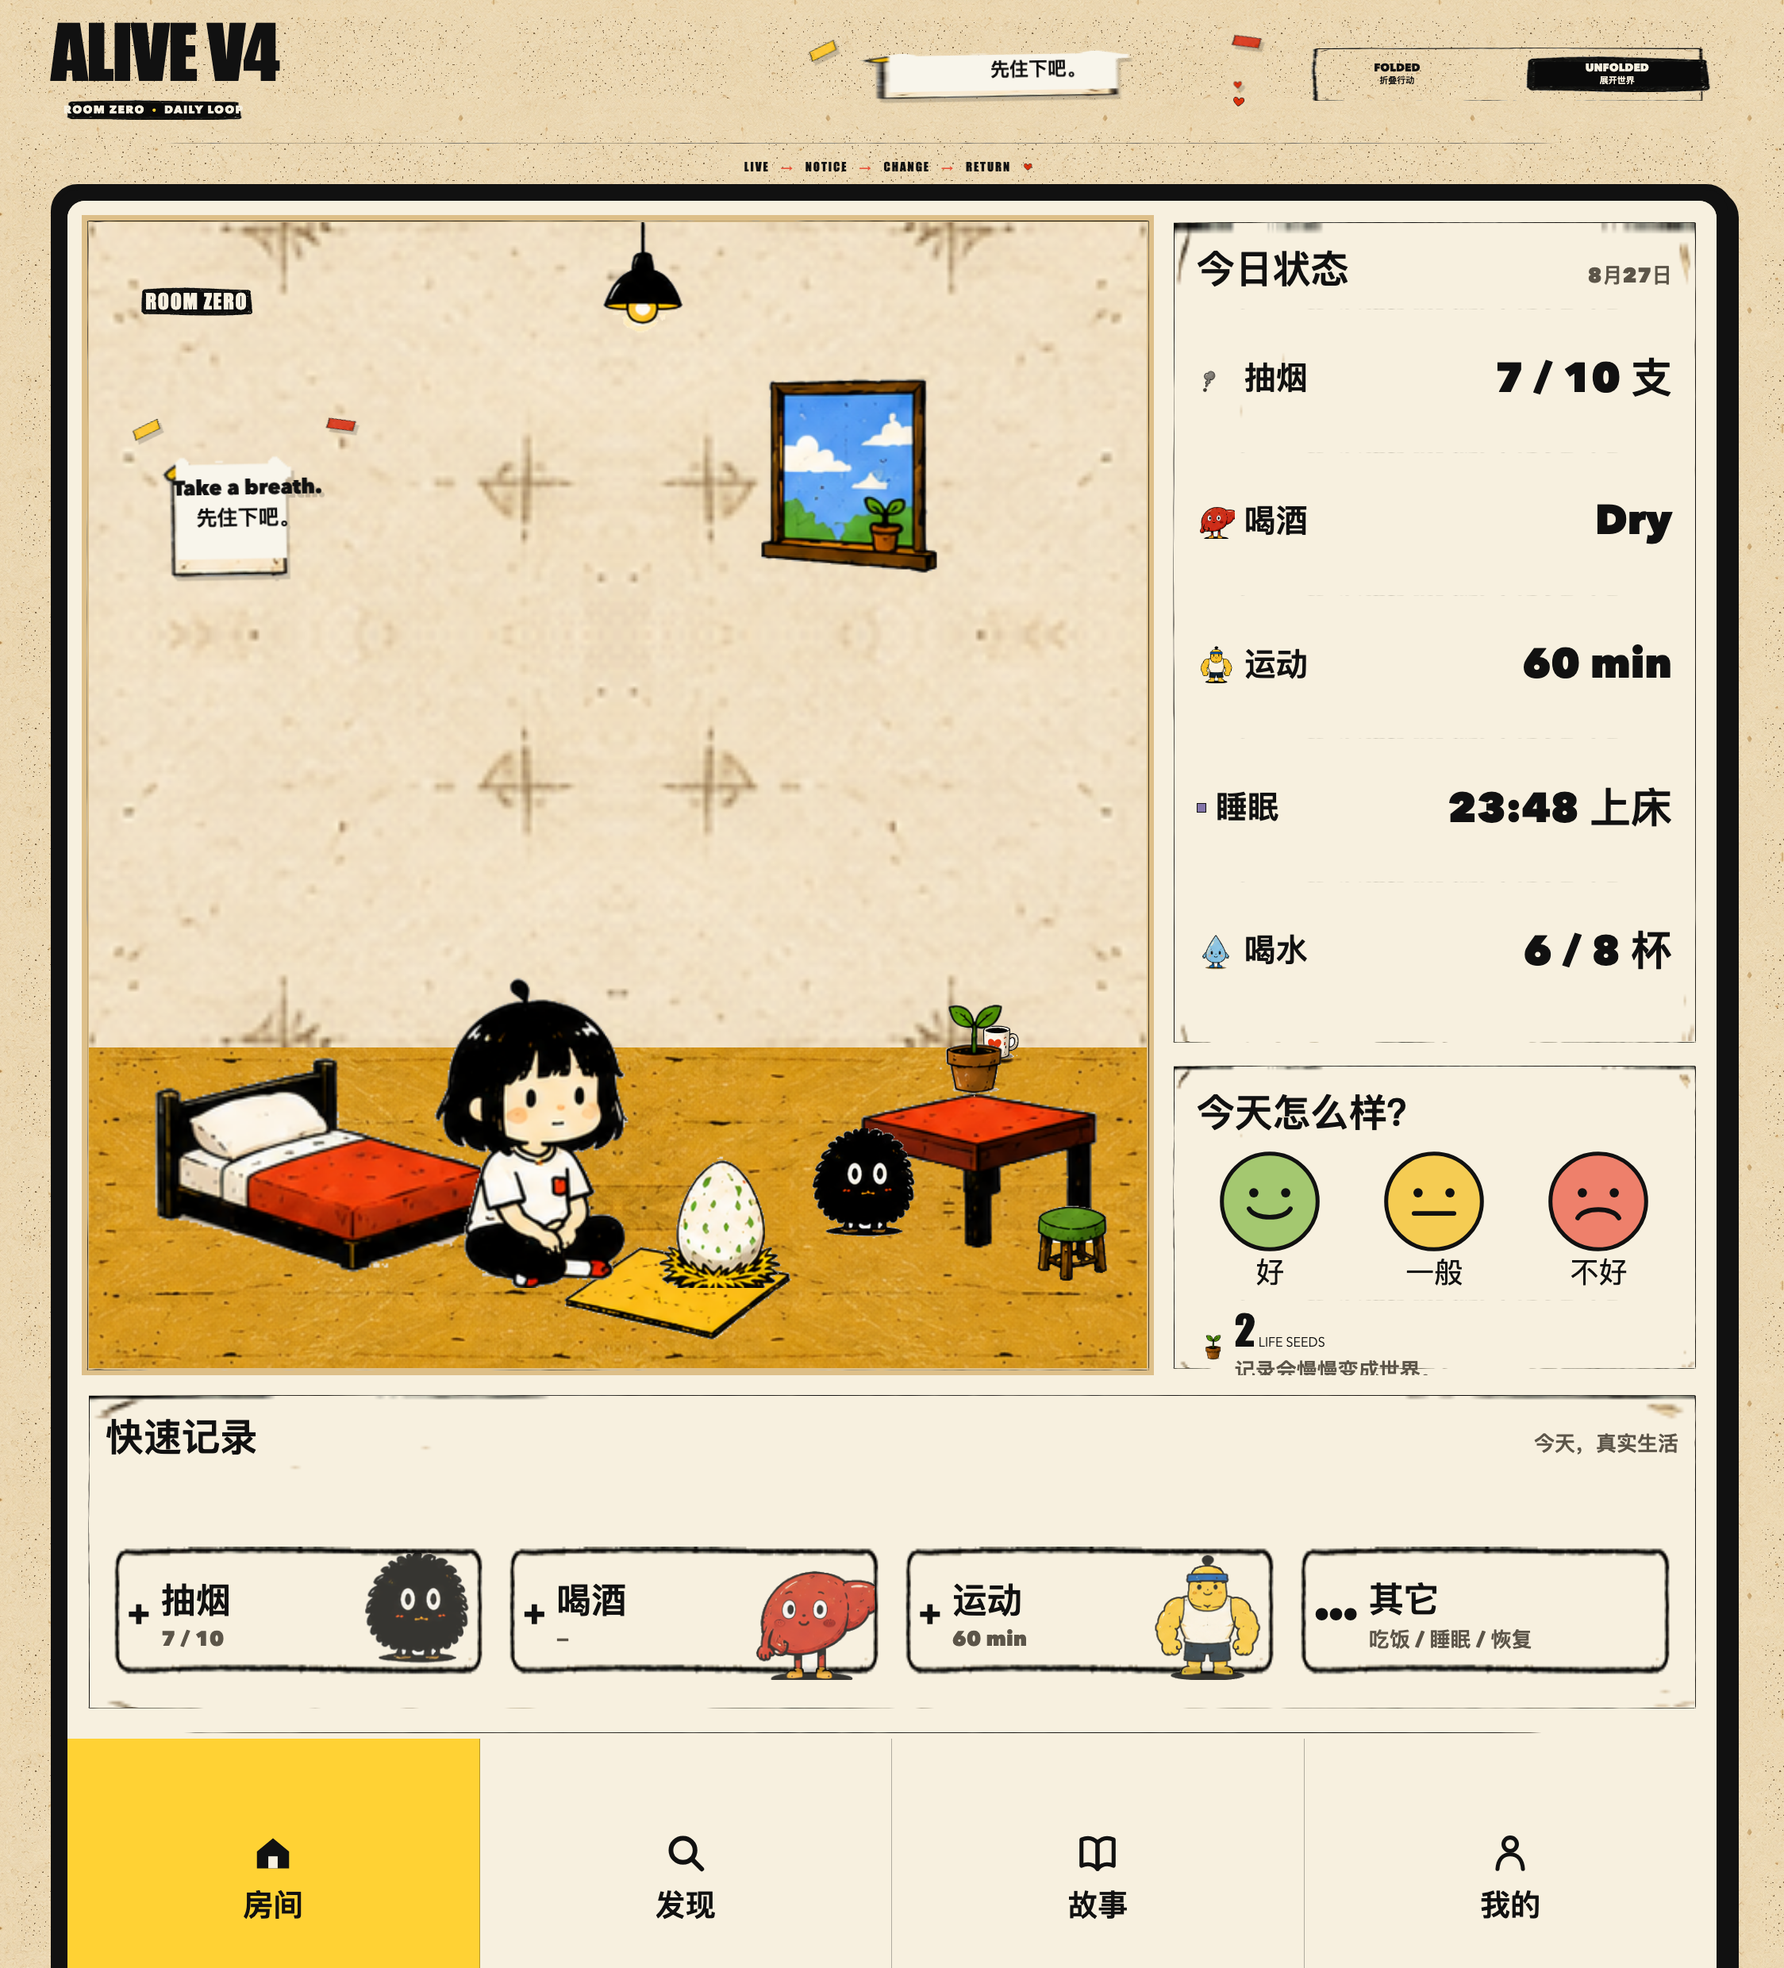
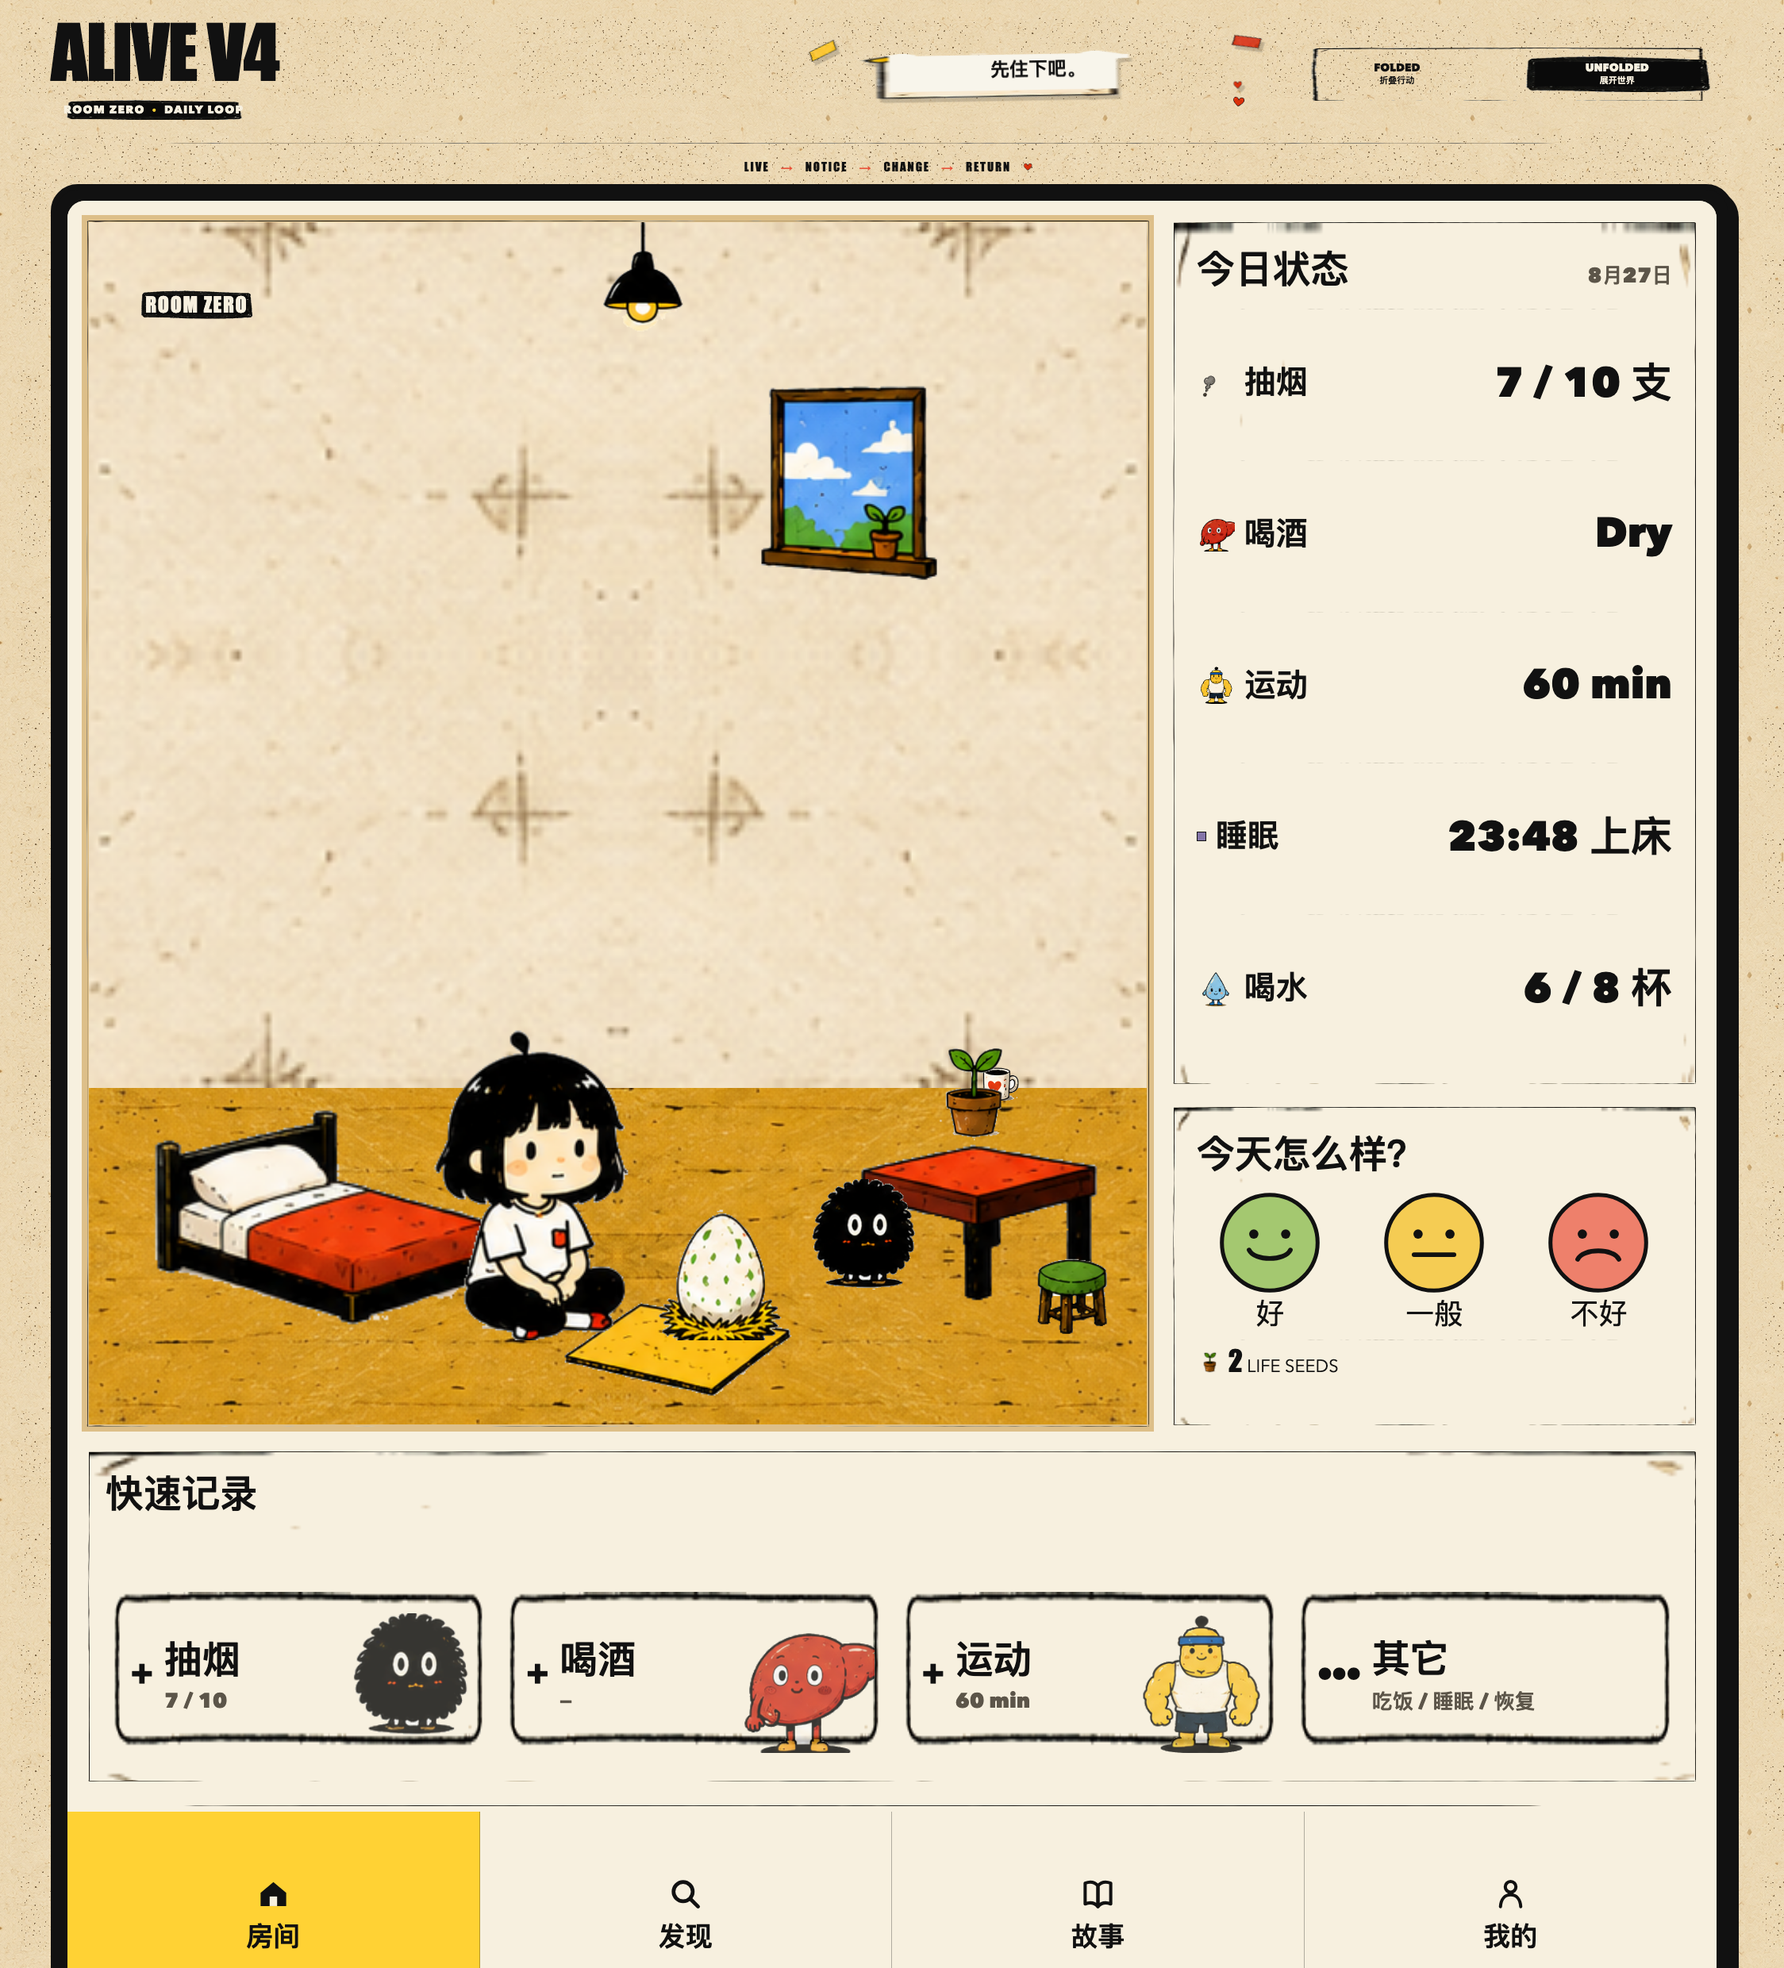
fix: tighten final visual polish

diff --git a/src/styles/app.css b/src/styles/app.css
@@ -30,7 +30,7 @@ img { max-width: 100%; }
 
 .handheld-shell { padding: 14px; border: 7px solid var(--ink); border-radius: 34px; background: var(--ink); box-shadow: var(--heavy-shadow); }
 .screen-bezel { overflow: hidden; border: 0; border-radius: 22px; background: var(--paper); }
-.screen-bezel[data-screen-mode="unfolded"] { aspect-ratio: 2248 / 2480; display: grid; grid-template-rows: minmax(0, var(--screen-unfolded-content-fr)) minmax(0, 16fr); }
+.screen-bezel[data-screen-mode="unfolded"] { aspect-ratio: 2248 / 2480; display: grid; grid-template-rows: minmax(0, var(--screen-unfolded-content-fr)) minmax(0, var(--screen-unfolded-nav-fr)); }
 .screen-bezel[data-screen-mode="folded"] { aspect-ratio: 1140 / 2616; display: block; }
 .screen-label { display: flex; justify-content: space-between; gap: 14px; min-width: 0; padding: 14px 8%; color: var(--paper); background-color: var(--ink); background-image: url('../../public/assets/material/frame-cta-black.png'); background-size: 100% 100%; font-family: var(--font-display); font-size: clamp(11px, 1.2vw, 16px); letter-spacing: .08em; white-space: nowrap; }
 .screen-label span { min-width: 0; overflow: hidden; text-overflow: ellipsis; }
@@ -40,7 +40,7 @@ img { max-width: 100%; }
 .unfolded-display > .quick-records { grid-column: 1 / -1; grid-row: 2; display: flex; flex-direction: column; justify-content: space-between; min-height: 0; height: 100%; margin-top: 0; padding: 18px 20px 20px; }
 .unfolded-display > .quick-records .section-heading { margin-bottom: 8px; }
 .unfolded-display > .quick-records .quick-grid { flex: 0 0 var(--action-quick); min-height: var(--action-quick); align-items: stretch; gap: 12px; }
-.unfolded-display > .quick-records .record-card { min-height: var(--action-quick); padding: 18px 20px; font-size: clamp(36px, 2.1vw, 44px); align-content: center; }
+.unfolded-display > .quick-records .record-card { min-height: var(--action-quick); padding: 24px 24px; font-size: clamp(40px, 2.3vw, 48px); align-content: center; }
 .unfolded-display > .quick-records .record-plus { margin-right: 14px; font-size: var(--type-primary); }
 .unfolded-display > .quick-records .record-label { font-size: inherit; }
 .unfolded-display > .quick-records .record-value { font-size: var(--type-secondary); }
@@ -111,7 +111,10 @@ img { max-width: 100%; }
 .mood:hover { transform: translateY(-3px); }
 .mood-face { display: block; width: clamp(92px, 6.5vw, 134px); height: auto; margin: 0 auto; }
 .mood-labels { display: grid; grid-template-columns: repeat(3, minmax(0, 1fr)); gap: 22px; margin-top: 6px; text-align: center; font-size: clamp(26px, 2.2vw, 36px); line-height: 1; }
-.mood-card .seed-chip { margin-top: 12px; padding-top: 10px; }
+.mood-card .seed-chip { margin-top: 10px; padding-top: 8px; }
+.mood-card .seed-chip img { width: 32px; height: 38px; }
+.mood-card .seed-chip b { font-size: 36px; }
+.mood-card .seed-chip span { font-size: 22px; }
 .seed-chip { display: flex; align-items: center; gap: 8px; margin-top: 15px; padding-top: 12px; background-image: url('../../public/assets/material/divider-handdrawn.png'); background-position: center top; background-size: 100% 8px; background-repeat: no-repeat; }
 .seed-chip img { width: 40px; height: 48px; object-fit: contain; }
 .seed-chip b { font-family: var(--font-display); font-size: var(--type-primary); } .seed-chip small { color: var(--muted); font-size: var(--type-secondary); font-weight: 750; }
@@ -120,9 +123,9 @@ img { max-width: 100%; }
 .bottom-nav { display: grid; grid-template-columns: repeat(4, 1fr); border-top: 0; background-color: var(--paper); background-image: url('../../public/assets/material/divider-handdrawn.png'); background-position: center top; background-size: 100% 12px; background-repeat: no-repeat; padding-top: 12px; }
 .bottom-nav { height: 100%; }
 [data-screen-mode="folded"] .bottom-nav { display: none; }
-.nav-item { display: flex; flex-direction: column; justify-content: center; align-items: center; gap: 12px; min-height: 120px; border: 0; border-right: 1.5px solid rgba(17,17,17,.3); background: transparent; font-size: clamp(30px, 2.3vw, 38px); font-weight: 950; }
+.nav-item { display: flex; flex-direction: column; justify-content: center; align-items: center; gap: 8px; min-height: 120px; border: 0; border-right: 1.5px solid rgba(17,17,17,.3); background: transparent; font-size: clamp(28px, 2vw, 34px); font-weight: 950; }
 .nav-item:last-child { border-right: 0; } .nav-item.is-active { background-color: var(--yellow); }
-.nav-icon { width: 54px; height: 54px; display: block; object-fit: contain; }
+.nav-icon { width: 43px; height: 43px; display: block; object-fit: contain; }
 .footer-caption { display: flex; justify-content: space-between; gap: 20px; align-items: baseline; padding-top: 24px; font-family: var(--font-display); } .footer-caption span { font-size: 25px; } .footer-caption small { letter-spacing: .07em; }
 
 [data-mode="folded"] .unfolded-display { display: none; }
@@ -158,10 +161,12 @@ img { max-width: 100%; }
 [data-mode="folded"] .focus-copy p { font-size: var(--type-secondary); }
 [data-mode="folded"] .focus-meter { display: block; flex-basis: 200px; }
 .primary-action, .secondary-action { width: 100%; margin-top: 0; border: 0; font-weight: 950; }
-.primary-action { display: flex; justify-content: center; align-items: center; gap: 20px; height: 100%; min-height: var(--action-primary); padding: 16px 22px; color: var(--paper); background-color: var(--ink); border: 8px solid transparent; border-image: url('../../public/assets/material/frame-cta-black.png') 20 fill / 8px / 0 stretch; font-size: clamp(56px, 5vw, 72px); align-self: stretch; }
-.primary-action img { width: 58px; height: 58px; object-fit: contain; }
+.primary-action { position: relative; display: flex; justify-content: center; align-items: center; gap: 20px; height: 100%; min-height: var(--action-primary); padding: 16px 22px; color: var(--paper); background-color: var(--ink); border: 8px solid transparent; border-image: url('../../public/assets/material/frame-cta-black.png') 20 fill / 8px / 0 stretch; font-size: clamp(56px, 5vw, 72px); align-self: stretch; }
+.primary-action .cta-icon { width: 68px; height: 68px; object-fit: contain; }
+.primary-action .cta-companion { position: absolute; right: 3%; bottom: -5%; z-index: 2; width: clamp(72px, 8vw, 102px); max-height: none; object-fit: contain; opacity: .96; pointer-events: none; }
 .primary-action:hover { color: var(--ink); background-color: var(--yellow); }
-.secondary-action { height: 100%; min-height: var(--action-secondary); padding: 14px 18px; background-color: transparent; border: 8px solid transparent; border-image: url('../../public/assets/material/frame-button-secondary.png') 20 fill / 8px / 0 stretch; font-size: clamp(42px, 3.6vw, 52px); align-self: stretch; } .secondary-action span { margin-left: 10px; color: var(--muted); font-size: clamp(26px, 2.1vw, 32px); }
+.secondary-action { height: 100%; min-height: var(--action-secondary); padding: 14px 18px; background-color: transparent; border: 8px solid transparent; border-image: url('../../public/assets/material/frame-button-secondary.png') 20 fill / 8px / 0 stretch; font-size: clamp(42px, 3.6vw, 52px); align-self: stretch; }
+.secondary-action .secondary-plus { margin-right: 10px; font-family: var(--font-display); }
 
 @media (max-width: 860px) {
   .brand-header { grid-template-columns: 1fr 1fr; gap: 18px; }
@@ -177,7 +182,7 @@ img { max-width: 100%; }
   .screen-bezel { border-radius: 14px; } .screen-label { padding: 9px 12px; font-size: 11px; }
   .folded-display { padding: 7px; } [data-mode="folded"] .folded-scene .room-scene { width: 100%; max-height: none; }
   .focus-panel { padding: 22px; min-height: 220px; } .focus-copy h2 { font-size: var(--type-section-title); }
-  .bottom-nav .nav-item { min-height: 120px; font-size: clamp(28px, 5vw, 34px); gap: 8px; } .nav-icon { width: 40px; height: 40px; }
+  .bottom-nav .nav-item { min-height: 120px; font-size: clamp(26px, 4.5vw, 32px); gap: 6px; } .nav-icon { width: 34px; height: 34px; }
   .footer-caption { display: block; text-align: center; } .footer-caption span { display: block; margin-bottom: 7px; font-size: 22px; }
   .loop-strip { gap: 7px; font-size: 11px; }
 }

diff --git a/src/layout/shell.js b/src/layout/shell.js
@@ -27,7 +27,6 @@ function roomScene({ smokeEncountered }) {
       <img class="room-asset egg-asset" src="${scene.assets.egg}" alt="神秘蛋">
       <img class="room-asset resident-asset" src="${scene.assets.resident}" alt="詹詹坐在房间里">
       ${smokeEncountered ? `<img class="room-asset smoke-asset" src="${scene.assets.smoke}" alt="烟雾兽出现">` : ''}
-      ${note('Take a breath.\n先住下吧。', 'room-note')}
     </div>`;
 }
 
@@ -50,7 +49,7 @@ function actionCard(item, records) {
 function quickRecordBar(records, className = '') {
   const cards = scene.actions.slice(0, 3).map((item) => actionCard(item, records)).join('');
   const other = '<button class="record-card accent-green other-card" data-action="food" type="button"><span class="record-plus">•••</span><span class="record-label">其它</span><span class="record-value">吃饭 / 睡眠 / 恢复</span></button>';
-  return `<section class="quick-records ${className}"><div class="section-heading"><h2>快速记录</h2><span>今天，真实生活</span></div><div class="quick-grid">${cards}${other}</div></section>`;
+  return `<section class="quick-records ${className}"><div class="section-heading"><h2>快速记录</h2></div><div class="quick-grid">${cards}${other}</div></section>`;
 }
 
 function focusPanel(records, lastAction) {
@@ -64,11 +63,11 @@ function foldedFocusPanel(records, lastAction) {
 }
 
 function statusPanel(records) {
-  return `<aside class="status-column"><section class="status-card"><div class="section-heading"><h2>今日状态</h2><span>8月27日</span></div>${statusRows(records)}</section><section class="mood-card"><h2>今天怎么样？</h2><div class="moods"><button type="button" class="mood good" aria-label="好"><img class="mood-face" src="${scene.assets.moodGood}" alt=""></button><button type="button" class="mood okay" aria-label="一般"><img class="mood-face" src="${scene.assets.moodOkay}" alt=""></button><button type="button" class="mood bad" aria-label="不好"><img class="mood-face" src="${scene.assets.moodBad}" alt=""></button></div><div class="mood-labels" aria-hidden="true"><span>好</span><span>一般</span><span>不好</span></div><div class="seed-chip"><img src="${scene.assets.plant}" alt=""><span><b>2</b> LIFE SEEDS<br><small>记录会慢慢变成世界。</small></span></div></section></aside>`;
+  return `<aside class="status-column"><section class="status-card"><div class="section-heading"><h2>今日状态</h2><span>8月27日</span></div>${statusRows(records)}</section><section class="mood-card"><h2>今天怎么样？</h2><div class="moods"><button type="button" class="mood good" aria-label="好"><img class="mood-face" src="${scene.assets.moodGood}" alt=""></button><button type="button" class="mood okay" aria-label="一般"><img class="mood-face" src="${scene.assets.moodOkay}" alt=""></button><button type="button" class="mood bad" aria-label="不好"><img class="mood-face" src="${scene.assets.moodBad}" alt=""></button></div><div class="mood-labels" aria-hidden="true"><span>好</span><span>一般</span><span>不好</span></div><div class="seed-chip"><img src="${scene.assets.plant}" alt=""><span><b>2</b> LIFE SEEDS</span></div></section></aside>`;
 }
 
 function foldedDisplay({ records, lastAction, smokeEncountered }) {
-  return `<div class="folded-display"><div class="folded-scene">${roomScene({ smokeEncountered })}</div>${foldedFocusPanel(records, lastAction)}<button class="primary-action" data-action="smoke" type="button"><img src="${scene.assets.smokeIcon}" alt="">+ 抽了一支</button><button class="secondary-action" data-action="food" type="button">＋ 记录其他</button></div>`;
+  return `<div class="folded-display"><div class="folded-scene">${roomScene({ smokeEncountered })}</div>${foldedFocusPanel(records, lastAction)}<button class="primary-action" data-action="smoke" type="button"><img class="cta-icon" src="${scene.assets.smokeIcon}" alt=""><span>+ 抽了一支</span><img class="cta-companion" src="${scene.assets.smoke}" alt="" aria-hidden="true"></button><button class="secondary-action" data-action="food" type="button"><span class="secondary-plus" aria-hidden="true">＋</span><span>记录其他</span></button></div>`;
 }
 
 function unfoldedDisplay({ records, lastAction, smokeEncountered }) {

diff --git a/src/styles/tokens.css b/src/styles/tokens.css
@@ -18,8 +18,9 @@
   /* Visual contract: the screen is composed as fixed game regions, not content-height cards. */
   --screen-unfolded-world: 66%;
   --screen-unfolded-quick: 18%;
-  --screen-unfolded-nav: 16%;
-  --screen-unfolded-content-fr: 84fr;
+  --screen-unfolded-nav: 12%;
+  --screen-unfolded-content-fr: 88fr;
+  --screen-unfolded-nav-fr: 12fr;
   --screen-unfolded-world-fr: 78fr;
   --screen-unfolded-quick-fr: 22fr;
   --screen-folded-room: 49%;
@@ -42,10 +43,10 @@
   --room-zhan-width: 24%;
   --room-egg-width: 17%;
   --room-smoke-width: 12%;
-  --record-resident-height: 162px;
+  --record-resident-height: 178px;
 
   /* Touch controls at the 2248px unfolded QA size. */
-  --action-quick: 190px;
+  --action-quick: 225px;
   --action-mood: 110px;
   --action-primary: 132px;
   --action-secondary: 102px;
